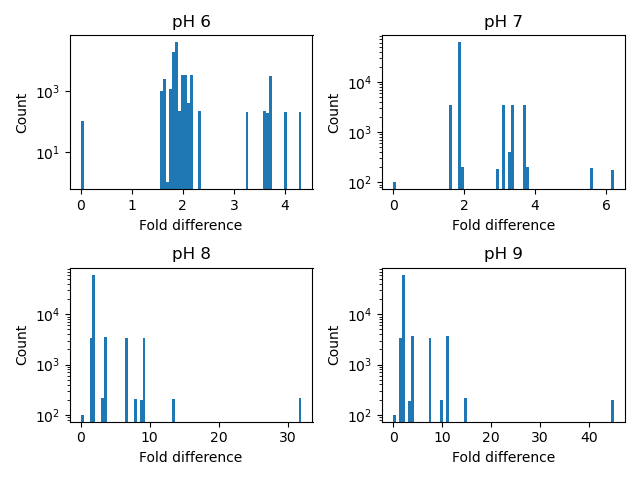
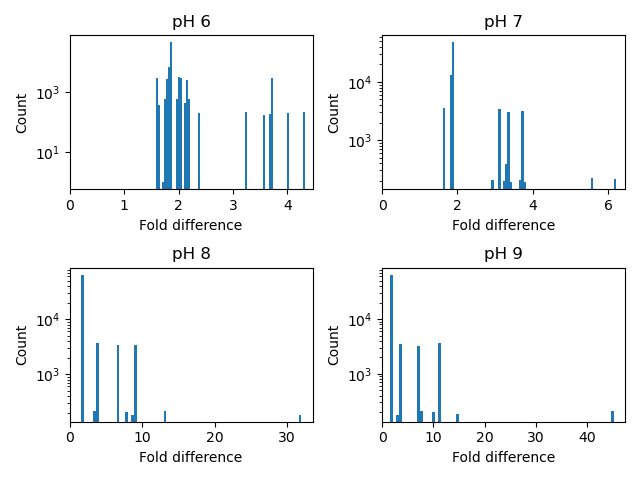
update to random sequence generation

diff --git a/comparisons/random_sequences.py b/comparisons/random_sequences.py
@@ -9,6 +9,7 @@ from hdxrate.psx.api import calc_k_int as psx_k_int
 import numpy as np
 import matplotlib.pyplot as plt
 
+np.random.seed(43)
 amino_acids = list('GALMFWKQESPVICYHRNDT')
 repeats = 100
 temperature = 300
@@ -28,40 +29,20 @@ for ax, pH in zip(axes.flatten(), pHs):
         diffs += list(psx_poly / expfact)
 
     diffs = np.array(diffs)
-    diffs = diffs[~np.isnan(diffs)]
+    diffs = diffs[~np.isnan(diffs)]  # remove NaN
+    diffs = diffs[diffs != 0.]  # Remove 0
 
     ax.set_yscale('log')
     ax.hist(diffs, bins=75)
     ax.set_title(f'pH {pH}')
     ax.set_ylabel('Count')
     ax.set_xlabel('Fold difference')
-#fig.suptitle('Intrisic rate differences expfact / psx')
+    ax.set_xlim(0, None)
+    #print(pH, np.min(diffs), np.max(diffs)) :
+    # 6 1.586076428945057 4.323111639721702
+    # 7 1.6062294252044966 6.2163497448764105
+    # 8 1.606402448281534 31.978492966181015
+    # 9 1.6064194484834653 45.168683743072926
+
 plt.tight_layout()
 plt.savefig('Rate differences histograms.png')
-
-
-# #
-# fig, (ax1, ax2) = plt.subplots(2, 1, figsize=(15, 5), sharex=True)
-# ax1.set_yscale('log')
-# ax1.scatter(r_number, psx_poly, label='psx_poly')
-# ax1.scatter(r_number, psx_oligo, label='psx_oligo')
-# ax1.scatter(r_number, expfact, label='expfact')
-# ax1.set_ylim(0.1, 1e5)
-# ax1.set_ylabel('Intrinsic Exchange \n rate (1/s)')
-# ax1.legend()
-#
-# ax2.plot(r_number, psx_poly / expfact, color='k', label='psx_poly / expfact')
-# ax2.plot(r_number, psx_oligo / expfact, color='k', linestyle='--', label='psx_oligo / expfact')
-# ax2.set_ylabel('Fold difference')
-# ax2.set_xlabel('Residue number')
-# ax2.legend()
-# ax2.plot()
-# plt.show()
-#
-# #
-# # fig, ax = plt.subplots()
-# # #ax.set_yscale('log')
-# # #ax.plot(psx, label='psx')
-# # ax.plot(expfact / psx, label='expfact')
-# # ax.legend()
-# # plt.show()
